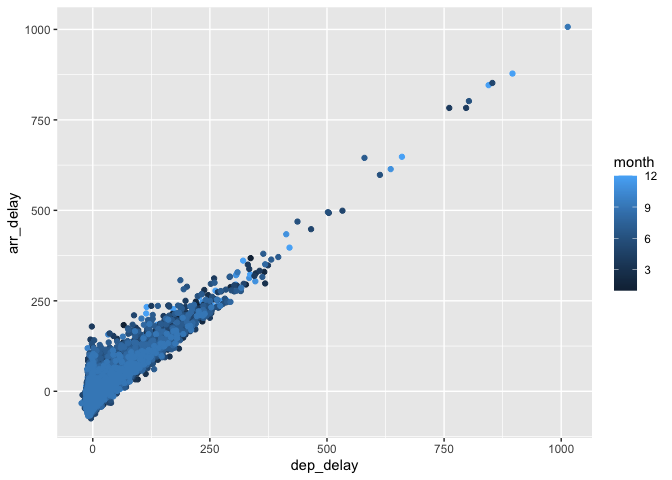
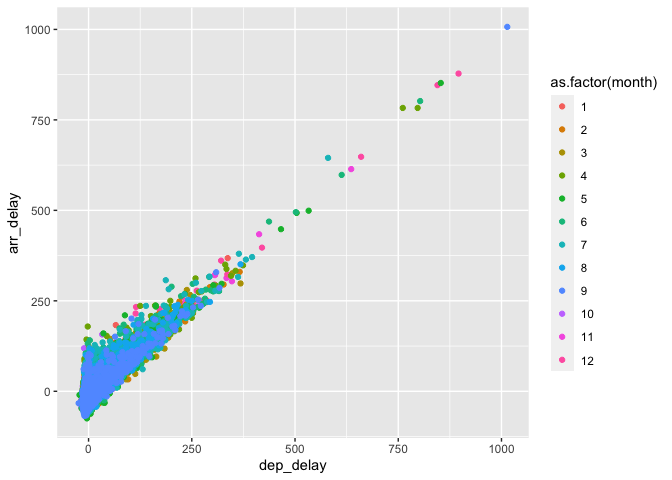
This is a change to the indent in line 31, and the colors of the plot

diff --git a/hw_4.md b/hw_4.md
@@ -33,11 +33,11 @@ library(nycflights13)
 AA_flights <- filter(flights, carrier == "AA")
 
 ggplot(data = AA_flights) +
-geom_point(mapping = aes(x = dep_delay, y = arr_delay, color = month))
+  geom_point(mapping = aes(x = dep_delay, y = arr_delay, color = as.factor(month)))
 ```
 
 ![](hw_4_files/figure-gfm/unnamed-chunk-3-1.png)<!-- -->
 
 The data shows that most arrival and departure delays are between 0 and
-500 minutes in length and that these delays are concentrated in the
-later months of the year.
+500 minutes in length and that these delays are concentrated from July
+to September
